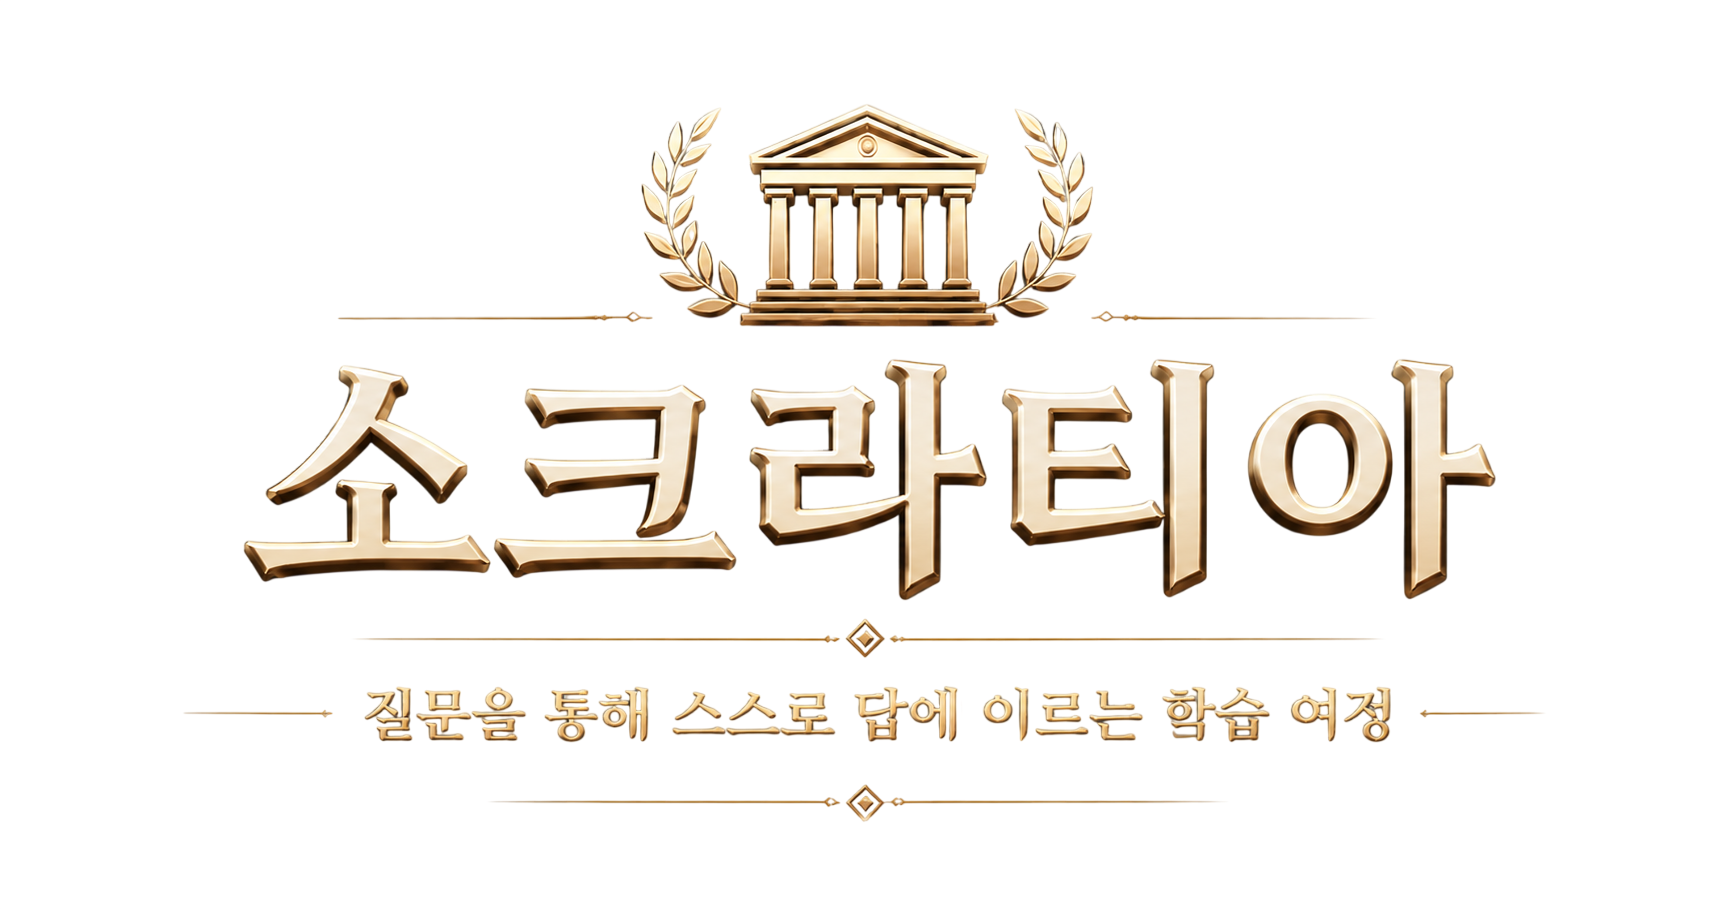
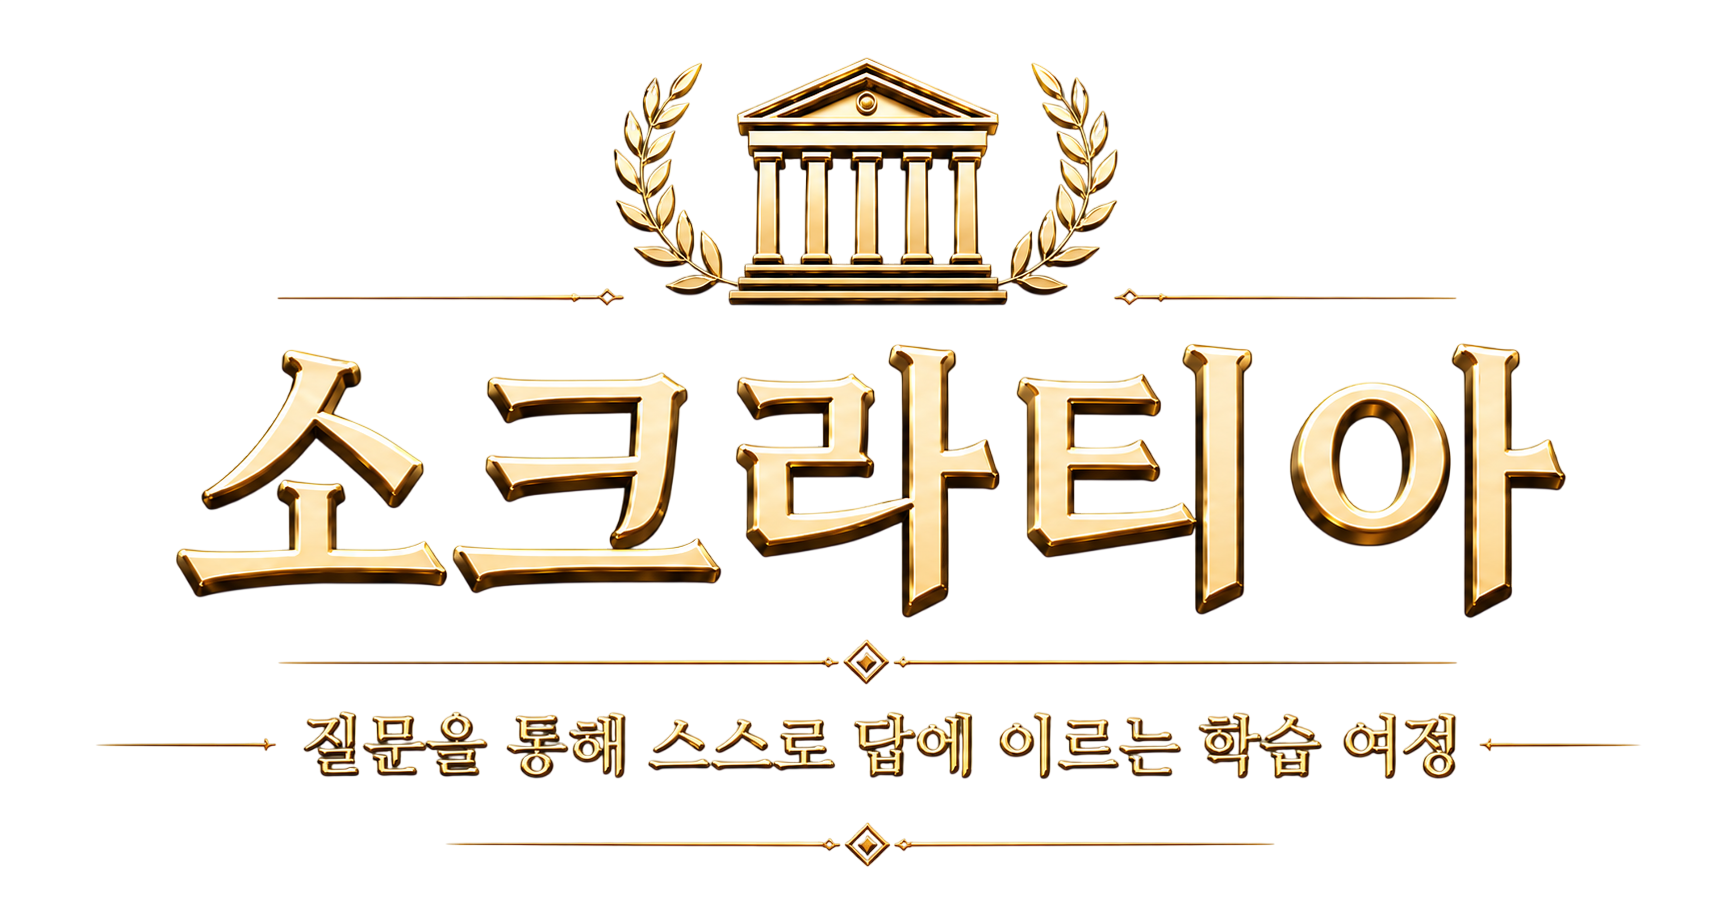
fix: 앱바 리디자인

Changed region(s): [[0.0624, 0.0616, 0.9364, 0.9549]]

diff --git a/frontend/src/components/TopBar.jsx b/frontend/src/components/TopBar.jsx
@@ -1,6 +1,6 @@
 import { Settings } from "lucide-react";
 
-export function TopBar({ onAcademy, academyLabel = "학당", audioSettings, courseTitle, progressPercent, userLabel }) {
+export function TopBar({ onAcademy, academyLabel = "학당", audioSettings, courseTitle, progressPercent }) {
   const showCourseBlock = Boolean(courseTitle) || typeof progressPercent === "number";
   return (
     <header className="slt-topbar" role="banner">
@@ -8,9 +8,6 @@ export function TopBar({ onAcademy, academyLabel = "학당", audioSettings, cour
       <span className="slt-edge slt-edge--bottom" aria-hidden="true"/>
       <span className="slt-hairline slt-hairline--top" aria-hidden="true"/>
       <span className="slt-hairline slt-hairline--bottom" aria-hidden="true"/>
-      <svg className="slt-corner slt-corner--left" aria-hidden="true" focusable="false"><use href="#sltCorner"/></svg>
-      <svg className="slt-corner slt-corner--right" aria-hidden="true" focusable="false"><use href="#sltCorner"/></svg>
-      <h1 className="slt-title">Socratic Lecture Tutor</h1>
       {showCourseBlock && (
         <div className="slt-course" aria-label="현재 학습 진행 상태">
           {courseTitle && <span className="slt-course-title">{courseTitle}</span>}
@@ -32,7 +29,6 @@ export function TopBar({ onAcademy, academyLabel = "학당", audioSettings, cour
           </button>
         )}
         {audioSettings}
-        {userLabel && <span className="slt-user-label">{userLabel}</span>}
       </nav>
     </header>
   );

diff --git a/frontend/src/styles.css b/frontend/src/styles.css
@@ -117,14 +117,14 @@ h1, h2, h3, p { margin-top: 0; }
 }
 .slt-defs { position: absolute; width: 0; height: 0; overflow: hidden; }
 .slt-edge {
-  position: absolute; left: 36px; right: 36px; height: 1px; z-index: 4;
+  position: absolute; left: 16px; right: 16px; height: 1px; z-index: 4;
   background: linear-gradient(90deg, transparent 0%, #33200d 2%, var(--gold-low) 4%, var(--gold) 8%, var(--gold-hi) 14%, #7e612f 24%, #4e3619 52%, var(--gold) 80%, var(--gold-hi) 90%, #33200d 98%, transparent 100%);
   box-shadow: 0 0 2px rgba(151,114,58,.18), 0 1px 0 rgba(0,0,0,.8);
 }
 .slt-edge--top { top: 5px; }
 .slt-edge--bottom { bottom: 5px; }
 .slt-hairline {
-  position: absolute; left: 40px; right: 40px; height: 1px; z-index: 4; opacity: .44;
+  position: absolute; left: 16px; right: 16px; height: 1px; z-index: 4; opacity: .44;
   background: linear-gradient(90deg, transparent, #9d7d4d 8%, #4d3518 50%, #9d7d4d 92%, transparent);
 }
 .slt-hairline--top { top: 8px; }
@@ -144,7 +144,7 @@ h1, h2, h3, p { margin-top: 0; }
   -webkit-font-smoothing: antialiased;
 }
 .slt-nav {
-  position: absolute; z-index: 8; top: 0; right: 82px; height: 100%;
+  position: absolute; z-index: 8; top: 0; right: 34px; height: 100%;
   display: flex; align-items: center; justify-content: flex-end; gap: 14px;
 }
 .slt-nav-button {

diff --git a/frontend/src/views/ContinueCourseView.jsx b/frontend/src/views/ContinueCourseView.jsx
@@ -24,7 +24,7 @@ export function ContinueCourseView({ audioSettings, busy, courses, error, onBack
   return (
     <ScreenShell
       className="continue-bg"
-      topBar={<TopBar audioSettings={audioSettings} userLabel="지혜를 찾는 자"/>}
+      topBar={<TopBar audioSettings={audioSettings}/>}
     >
       <main className="ctn-shell">
         <section className="ctn-card">

diff --git a/frontend/src/views/CheckpointIntroView.jsx b/frontend/src/views/CheckpointIntroView.jsx
@@ -25,7 +25,6 @@ export function CheckpointIntroView({ audioSettings, busy, course, progress, onL
           audioSettings={audioSettings}
           courseTitle={course?.title}
           progressPercent={progress}
-          userLabel="지혜를 찾는 자"
         />
       }
     >

diff --git a/frontend/src/views/ConceptCheckpointView.jsx b/frontend/src/views/ConceptCheckpointView.jsx
@@ -43,7 +43,6 @@ export function ConceptCheckpointView({
           audioSettings={audioSettings}
           courseTitle={course?.title}
           progressPercent={progress}
-          userLabel="지혜를 찾는 자"
         />
       }
     >

diff --git a/frontend/src/views/CourseCompletionView.jsx b/frontend/src/views/CourseCompletionView.jsx
@@ -14,7 +14,6 @@ export function CourseCompletionView({ audioSettings, busy, course, onReturnToRo
           audioSettings={audioSettings}
           courseTitle={course?.title}
           progressPercent={100}
-          userLabel="지혜를 찾는 자"
         />
       }
     >

diff --git a/frontend/src/views/RoadmapView.jsx b/frontend/src/views/RoadmapView.jsx
@@ -38,7 +38,6 @@ export function RoadmapView({
           audioSettings={audioSettings}
           courseTitle={course?.title}
           progressPercent={progress}
-          userLabel="지혜를 찾는 자"
         />
       }
     >

diff --git a/frontend/src/views/StartView.jsx b/frontend/src/views/StartView.jsx
@@ -41,7 +41,6 @@ export function StartView({
           audioSettings={audioSettings}
           onAcademy={onBack}
           academyLabel={isWeekMode ? "로드맵으로" : "메인으로"}
-          userLabel="지혜를 찾는 자"
         />
       }
     >

diff --git a/frontend/src/views/StudyView.jsx b/frontend/src/views/StudyView.jsx
@@ -69,7 +69,6 @@ export function StudyView({
           audioSettings={audioSettings}
           courseTitle={courseTitle}
           progressPercent={courseProgress}
-          userLabel="지혜를 찾는 자"
         />
       }
       backgroundContent={